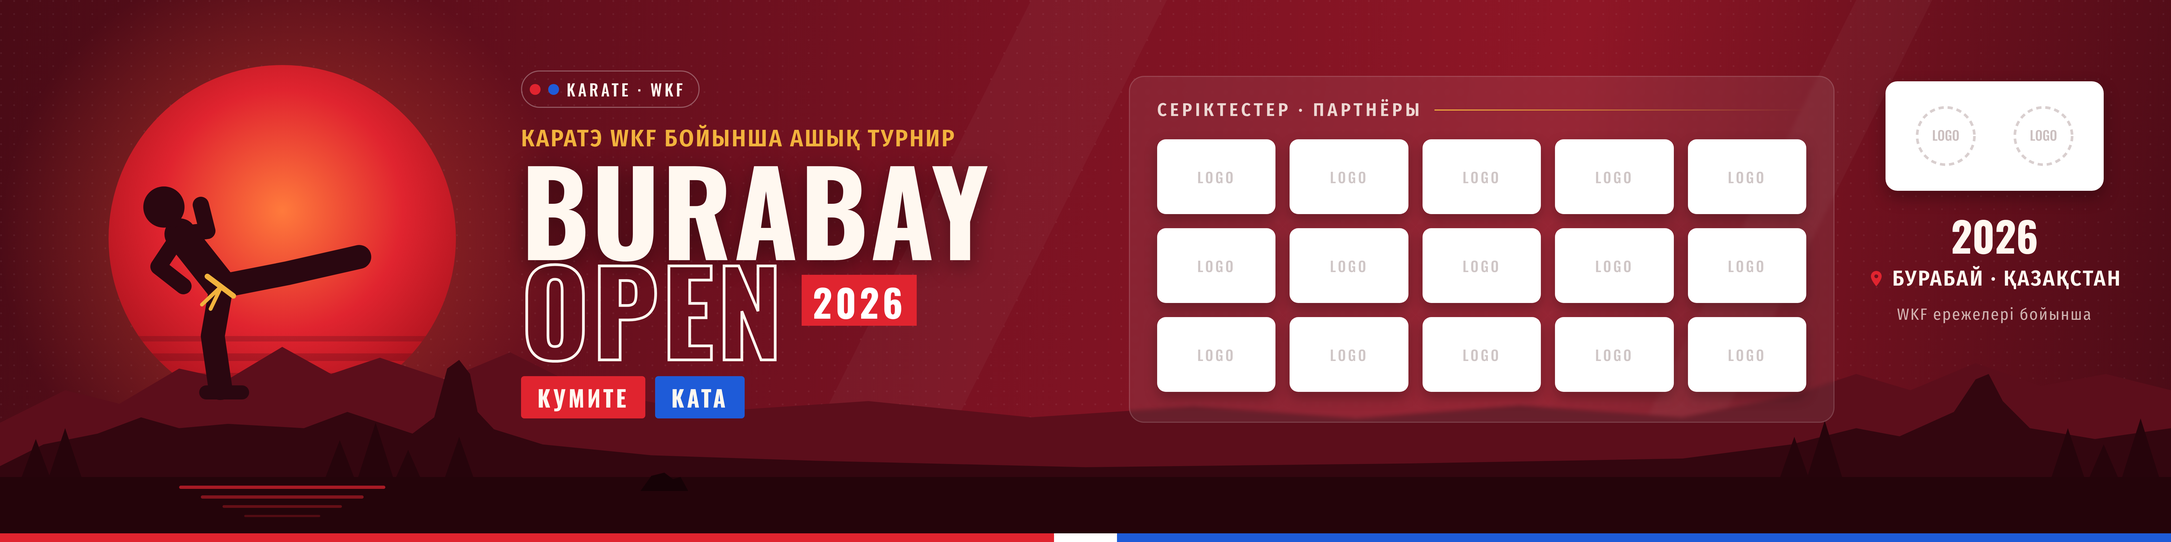
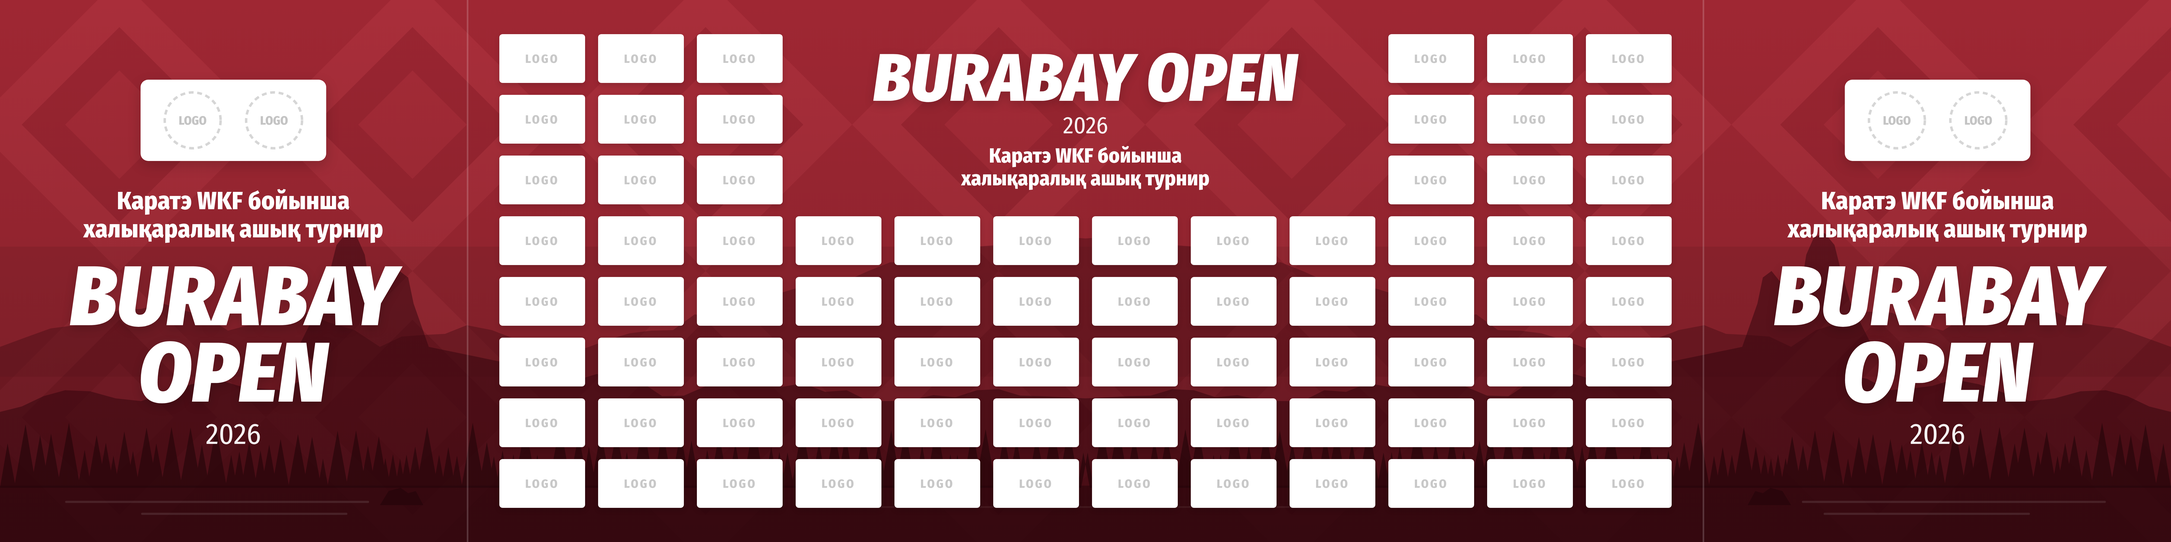
Restore grid press wall and add Burabay mountains
Back to the grid layout the client preferred, with layered Burabay
landscape: far ridge with Kokshe, Okzhetpes rock in both side panels,
pine forest and lake with Zhumbaktas.

Claude-Session: https://claude.ai/code/session_012thMDR2TzqTGe4RBzEh3Vf

diff --git a/burabay-open/press-wall.html b/burabay-open/press-wall.html
@@ -6,203 +6,171 @@
 <title>Burabay Open — пресс-волл</title>
 <link rel="preconnect" href="https://fonts.googleapis.com">
 <link rel="preconnect" href="https://fonts.gstatic.com" crossorigin>
-<link href="https://fonts.googleapis.com/css2?family=Oswald:wght@500;700&family=Fira+Sans+Condensed:wght@400;600;800&display=swap" rel="stylesheet">
+<link href="https://fonts.googleapis.com/css2?family=Fira+Sans+Condensed:ital,wght@0,400;0,600;0,800;1,800;1,900&display=swap" rel="stylesheet">
 <style>
   :root {
-    --wine: #4a0b16;
-    --wine-2: #7a1222;
-    --aka: #e0242f;
-    --ao: #1e5bd8;
-    --gold: #f2b33d;
-    --ink: #fff8f0;
+    --bg: #9f2733;
+    --bg-dark: #86202b;
+    --bg-light: #b33642;
+    --white: #ffffff;
   }
   * { box-sizing: border-box; margin: 0; padding: 0; }
   html, body { height: 100%; background: #111; }
   body { display: grid; place-items: center; overflow: hidden; }
 
-  /* Холст 4000×1000 (4:1), масштабируется под окно */
+  /* Холст 4000×1000 (пропорция 4:1), масштабируется под окно */
   .wall {
     width: 4000px; height: 1000px; position: relative; overflow: hidden; flex: none;
-    background: linear-gradient(100deg, var(--wine) 0%, var(--wine-2) 45%, #8f1626 70%, var(--wine) 100%);
-    color: var(--ink); font-family: "Fira Sans Condensed", sans-serif;
+    background: var(--bg); color: var(--white);
+    font-family: "Fira Sans Condensed", sans-serif;
   }
-  .scene { position: absolute; inset: 0; }
+  .bg { position: absolute; inset: 0; }
 
-  /* Заголовок */
-  .title-block { position: absolute; left: 960px; top: 130px; width: 960px; }
-  .badge {
-    display: inline-flex; align-items: center; gap: 14px; padding: 10px 24px 10px 14px;
-    border: 2px solid rgba(255,255,255,.3); border-radius: 999px;
-    font-family: Oswald, sans-serif; font-weight: 500; font-size: 30px; letter-spacing: 5px; text-transform: uppercase;
-  }
-  .badge i { width: 20px; height: 20px; border-radius: 50%; display: block; }
-  .subtitle { margin-top: 30px; font-weight: 600; font-size: 44px; letter-spacing: 3px; text-transform: uppercase; color: var(--gold); }
-  .name { font-family: Oswald, sans-serif; font-weight: 700; text-transform: uppercase; line-height: .86; margin-top: 10px; }
-  .name .l1 { display: block; font-size: 214px; letter-spacing: 4px; text-shadow: 0 10px 40px rgba(0,0,0,.4); }
-  .name .l2 { display: flex; align-items: center; gap: 30px; font-size: 214px; letter-spacing: 6px; }
-  .name .open { color: transparent; -webkit-text-stroke: 5px var(--ink); }
-  .name .year { font-size: 70px; line-height: 1; padding: 14px 20px 10px; background: var(--aka); color: #fff; transform: translateY(-14px); }
-  .disc { margin-top: 34px; display: flex; gap: 18px; }
-  .disc span { font-family: Oswald, sans-serif; font-weight: 700; font-size: 42px; letter-spacing: 5px; text-transform: uppercase; padding: 8px 30px; border-radius: 6px; }
+  .panel { position: absolute; top: 0; bottom: 0; display: flex; flex-direction: column; align-items: center; text-align: center; }
+  .side { width: 860px; justify-content: center; padding-bottom: 20px; }
+  .side.left  { left: 0; }
+  .side.right { right: 0; }
+  .center { left: 860px; right: 860px; padding: 46px 60px; justify-content: center; }
 
-  /* Партнёры */
-  .partners {
-    position: absolute; left: 2080px; top: 140px; width: 1300px; height: 640px;
-    border-radius: 28px; padding: 40px 50px;
-    background: rgba(255,255,255,.07); border: 2px solid rgba(255,255,255,.14);
-    backdrop-filter: blur(4px);
-  }
-  .partners h2 {
-    display: flex; align-items: center; gap: 22px; font-weight: 600; font-size: 34px; letter-spacing: 6px;
-    text-transform: uppercase; color: rgba(255,248,240,.85);
-  }
-  .partners h2::after { content: ""; flex: 1; height: 2px; background: linear-gradient(90deg, var(--gold), transparent); }
-  .logos { margin-top: 34px; display: grid; grid-template-columns: repeat(5, 1fr); gap: 26px; }
-  .logo {
-    height: 138px; background: #fff; border-radius: 16px; display: grid; place-items: center; padding: 14px 20px;
-    box-shadow: 0 10px 24px rgba(0,0,0,.25);
-  }
-  .logo img { max-width: 100%; max-height: 100%; object-fit: contain; }
-  .logo .ph { font-family: Oswald, sans-serif; font-size: 26px; letter-spacing: 4px; color: #cfc6c6; }
+  .divider { position: absolute; top: 0; bottom: 0; width: 3px; background: rgba(255,255,255,.18); }
 
-  /* Организаторы, место, дата */
-  .info { position: absolute; right: 90px; top: 150px; width: 470px; display: flex; flex-direction: column; align-items: center; text-align: center; }
-  .org { display: flex; gap: 30px; background: #fff; border-radius: 22px; padding: 26px 36px; box-shadow: 0 12px 30px rgba(0,0,0,.3); }
-  .org .slot { width: 150px; height: 150px; display: grid; place-items: center; }
-  .org .slot img { max-width: 100%; max-height: 100%; object-fit: contain; }
-  .info .date { margin-top: 44px; font-family: Oswald, sans-serif; font-weight: 700; font-size: 76px; line-height: 1; }
-  .info .place { margin-top: 18px; display: flex; align-items: center; gap: 12px; font-weight: 600; font-size: 40px; letter-spacing: 3px; text-transform: uppercase; }
-  .info .rules { margin-top: 24px; font-size: 30px; letter-spacing: 2px; color: rgba(255,248,240,.7); }
+  /* Белая плашка с логотипами организаторов */
+  .org-plate {
+    display: flex; align-items: center; justify-content: center; gap: 38px;
+    background: #fff; border-radius: 14px; padding: 18px 40px; height: 150px; min-width: 330px;
+    box-shadow: 0 8px 24px rgba(0,0,0,.18);
+  }
+  .org-plate .logo { width: 112px; height: 112px; }
 
-  .stripe { position: absolute; left: 0; right: 0; bottom: 0; height: 16px; display: flex; }
-  .stripe i:nth-child(1) { flex: 1; background: var(--aka); }
-  .stripe i:nth-child(2) { flex: .06; background: #fff; }
-  .stripe i:nth-child(3) { flex: 1; background: var(--ao); }
+  .subtitle { font-weight: 800; font-size: 46px; line-height: 1.12; letter-spacing: .3px; }
+  .side .subtitle { margin-top: 48px; }
+
+  .name {
+    font-weight: 900; font-style: italic; text-transform: uppercase; line-height: .9;
+    letter-spacing: 1px; text-shadow: 0 6px 18px rgba(0,0,0,.18);
+  }
+  .side .name { font-size: 156px; margin-top: 30px; }
+  .center .name { font-size: 124px; }
+
+  .date { font-weight: 400; font-size: 54px; margin-top: 10px; opacity: .95; }
+  .center .date { font-size: 44px; margin-top: 4px; }
+  .center .subtitle { font-size: 38px; margin-top: 8px; }
+
+  /* Сетка логотипов партнёров */
+  .grid {
+    display: grid; gap: 22px 24px; grid-auto-flow: dense;
+    grid-template-columns: repeat(12, 158px); grid-auto-rows: 90px;
+  }
+  .heading {
+    grid-column: 4 / span 6; grid-row: 1 / span 3;
+    display: flex; flex-direction: column; align-items: center; justify-content: center; text-align: center;
+  }
+  .tile {
+    background: #fff; border-radius: 6px; display: grid; place-items: center;
+    padding: 8px 14px; box-shadow: 0 4px 10px rgba(0,0,0,.15);
+  }
+  .tile img { max-width: 100%; max-height: 100%; object-fit: contain; }
+  .tile .ph { font-weight: 800; font-size: 22px; letter-spacing: 3px; color: #c8c8c8; text-transform: uppercase; }
 </style>
 </head>
 <body>
 <div class="wall" id="wall">
-  <svg class="scene" viewBox="0 0 4000 1000" aria-hidden="true">
+
+  <!-- Фон: ромбы и полосы -->
+  <svg class="bg" viewBox="0 0 4000 1000" preserveAspectRatio="none" aria-hidden="true">
     <defs>
-      <radialGradient id="sun" cx="50%" cy="42%" r="58%">
-        <stop offset="0" stop-color="#ff7a3c"/><stop offset=".6" stop-color="#e0242f"/><stop offset="1" stop-color="#b0141f"/>
-      </radialGradient>
-      <radialGradient id="glow"><stop offset="0" stop-color="#ff5a3a" stop-opacity=".5"/><stop offset="1" stop-color="#ff5a3a" stop-opacity="0"/></radialGradient>
-      <clipPath id="sunclip"><circle cx="520" cy="440" r="320"/></clipPath>
-      <pattern id="dots" width="24" height="24" patternUnits="userSpaceOnUse"><circle cx="2" cy="2" r="1.6" fill="#fff" opacity=".06"/></pattern>
+      <pattern id="diamonds" width="540" height="540" patternUnits="userSpaceOnUse" x="-50" y="-40">
+        <polygon points="270,0 540,270 270,540 0,270" fill="#a92e3a"/>
+        <polygon points="270,90 450,270 270,450 90,270" fill="#9a2531"/>
+        <polygon points="270,170 370,270 270,370 170,270" fill="#a52b37"/>
+      </pattern>
+      <linearGradient id="shade" x1="0" y1="0" x2="0" y2="1">
+        <stop offset="0" stop-color="#000" stop-opacity="0"/>
+        <stop offset="1" stop-color="#000" stop-opacity=".18"/>
+      </linearGradient>
     </defs>
-    <rect width="4000" height="1000" fill="url(#dots)"/>
-
-    <!-- крупные диагональные лучи -->
-    <g fill="#fff" opacity=".035">
-      <polygon points="1900,0 2150,0 1650,1000 1400,1000"/>
-      <polygon points="3420,0 3560,0 3060,1000 2920,1000"/>
+    <rect width="4000" height="1000" fill="url(#diamonds)"/>
+    <!-- горизонтальная полоса, как в референсе -->
+    <rect y="455" width="4000" height="240" fill="#000" opacity=".07"/>
+    <!-- Горы Бурабая: дальний хребет с горой Кокше, скала Окжетпес, сосновый лес, озеро с Жумбактас -->
+    <path fill="#3d0710" opacity=".36" d="M0 1000 L0 640 L46 623 L93 606 L140 600 L180 593 L220 571 L260 570 L300 560 L340 573 L380 584 L420 610 L466 598 L513 577 L560 575 L606 595 L653 609 L700 640 L740 621 L780 618 L820 616 L860 600 L906 609 L953 627 L1000 650 L1040 644 L1080 642 L1120 627 L1160 615 L1200 610 L1240 609 L1280 580 L1320 587 L1360 565 L1400 560 L1440 540 L1480 528 L1520 520 L1560 518 L1600 500 L1640 484 L1680 483 L1720 475 L1760 461 L1800 455 L1840 452 L1880 440 L1920 437 L1960 437 L2000 440 L2040 437 L2080 437 L2120 440 L2160 452 L2200 455 L2240 461 L2280 475 L2320 483 L2360 484 L2400 500 L2440 518 L2480 520 L2520 528 L2560 540 L2600 560 L2640 565 L2680 587 L2720 580 L2760 609 L2800 610 L2840 615 L2880 627 L2920 642 L2960 644 L3000 650 L3046 627 L3093 609 L3140 600 L3180 616 L3220 618 L3260 621 L3300 640 L3346 609 L3393 595 L3440 575 L3486 577 L3533 598 L3580 610 L3620 584 L3660 573 L3700 560 L3740 570 L3780 571 L3820 593 L3860 600 L3906 606 L3953 623 L4000 640 L4000 1000 Z"/>
+    <path fill="#3d0710" opacity=".55" d="M0 1000 L0 760 L40 750 L80 731 L120 720 L166 722 L213 735 L260 740 L306 725 L353 709 L400 700 L440 712 L480 717 L520 720 L560 699 L600 690 L550 640 L590 560 L608 500 L620 452 L638 430 L658 438 L672 470 L680 520 L696 560 L720 520 L736 500 L752 512 L762 560 L790 640 L790 640 L940 671 L980 700 L1020 697 L1060 702 L1100 690 L1140 705 L1180 704 L1220 731 L1260 730 L1306 710 L1353 708 L1400 700 L1440 714 L1480 707 L1520 723 L1560 720 L1600 740 L1640 740 L1680 738 L1720 729 L1760 733 L1800 720 L1840 718 L1880 730 L1920 731 L1960 733 L2000 735 L2040 733 L2080 731 L2120 730 L2160 718 L2200 720 L2240 733 L2280 729 L2320 738 L2360 740 L2400 740 L2440 720 L2480 723 L2520 707 L2560 714 L2600 700 L2646 708 L2693 710 L2740 730 L2780 731 L2820 704 L2860 705 L2900 690 L2940 702 L2980 697 L3020 700 L3060 671 L3210 640 L3210 640 L3238 560 L3248 512 L3264 500 L3280 520 L3304 560 L3320 520 L3328 470 L3342 438 L3362 430 L3380 452 L3392 500 L3410 560 L3450 640 L3400 690 L3440 699 L3480 720 L3520 717 L3560 712 L3600 700 L3646 709 L3693 725 L3740 740 L3786 735 L3833 722 L3880 720 L3920 731 L3960 750 L4000 760 L4000 1000 Z"/>
+    <path fill="#2e050c" opacity=".7" d="M0 900 L14 818 L29 900 Z M26 900 L47 783 L67 900 Z M57 900 L74 803 L91 900 Z M77 900 L94 800 L112 900 Z M105 900 L127 780 L148 900 Z M143 900 L156 830 L168 900 Z M161 900 L178 803 L196 900 Z M180 900 L195 817 L210 900 Z M199 900 L209 841 L220 900 Z M211 900 L229 796 L248 900 Z M233 900 L245 832 L257 900 Z M250 900 L270 789 L290 900 Z M274 900 L288 818 L303 900 Z M296 900 L316 788 L336 900 Z M331 900 L351 789 L371 900 Z M358 900 L372 820 L386 900 Z M378 900 L398 788 L418 900 Z M415 900 L426 839 L437 900 Z M429 900 L441 833 L452 900 Z M444 900 L459 816 L474 900 Z M468 900 L480 831 L492 900 Z M481 900 L496 820 L510 900 Z M501 900 L517 810 L533 900 Z M531 900 L549 801 L567 900 Z M558 900 L575 806 L592 900 Z M586 900 L595 846 L605 900 Z M603 900 L622 795 L641 900 Z M637 900 L656 794 L675 900 Z M664 900 L678 822 L692 900 Z M681 900 L698 805 L715 900 Z M700 900 L710 845 L720 900 Z M713 900 L724 838 L735 900 Z M728 900 L737 846 L747 900 Z M738 900 L749 839 L760 900 Z M751 900 L765 824 L778 900 Z M767 900 L787 788 L807 900 Z M798 900 L809 839 L820 900 Z M813 900 L826 825 L839 900 Z M831 900 L842 841 L852 900 Z M850 900 L871 780 L893 900 Z M882 900 L897 816 L912 900 Z M899 900 L910 842 L920 900 Z M913 900 L926 831 L938 900 Z M935 900 L946 838 L957 900 Z M947 900 L968 783 L989 900 Z M979 900 L990 839 L1001 900 Z M996 900 L1005 848 L1015 900 Z M1010 900 L1032 781 L1053 900 Z M1048 900 L1066 801 L1084 900 Z M1072 900 L1085 824 L1099 900 Z M1089 900 L1107 795 L1126 900 Z M1117 900 L1136 795 L1155 900 Z M1143 900 L1155 834 L1166 900 Z M1163 900 L1185 781 L1206 900 Z M1202 900 L1221 793 L1240 900 Z M1235 900 L1254 798 L1272 900 Z M1259 900 L1274 813 L1290 900 Z M1280 900 L1290 847 L1299 900 Z M1291 900 L1303 830 L1316 900 Z M1307 900 L1325 801 L1342 900 Z M1340 900 L1355 818 L1369 900 Z M1367 900 L1389 780 L1410 900 Z M1407 900 L1421 824 L1434 900 Z M1424 900 L1436 834 L1448 900 Z M1439 900 L1451 835 L1463 900 Z M1458 900 L1478 786 L1499 900 Z M1494 900 L1509 816 L1524 900 Z M1518 900 L1537 794 L1557 900 Z M1541 900 L1558 803 L1575 900 Z M1572 900 L1591 795 L1610 900 Z M1604 900 L1619 816 L1634 900 Z M1623 900 L1642 794 L1661 900 Z M1649 900 L1668 793 L1687 900 Z M1685 900 L1699 822 L1713 900 Z M1705 900 L1726 783 L1746 900 Z M1740 900 L1751 838 L1762 900 Z M1753 900 L1764 839 L1775 900 Z M1773 900 L1792 793 L1811 900 Z M1796 900 L1816 792 L1835 900 Z M1833 900 L1850 803 L1868 900 Z M1857 900 L1873 811 L1889 900 Z M1876 900 L1885 849 L1894 900 Z M1893 900 L1910 804 L1928 900 Z M1919 900 L1940 784 L1961 900 Z M1949 900 L1969 788 L1989 900 Z M1985 900 L1996 835 L2008 900 Z M4000 900 L3986 818 L3971 900 Z M3974 900 L3953 783 L3933 900 Z M3943 900 L3926 803 L3909 900 Z M3923 900 L3906 800 L3888 900 Z M3895 900 L3873 780 L3852 900 Z M3857 900 L3844 830 L3832 900 Z M3839 900 L3822 803 L3804 900 Z M3820 900 L3805 817 L3790 900 Z M3801 900 L3791 841 L3780 900 Z M3789 900 L3771 796 L3752 900 Z M3767 900 L3755 832 L3743 900 Z M3750 900 L3730 789 L3710 900 Z M3726 900 L3712 818 L3697 900 Z M3704 900 L3684 788 L3664 900 Z M3669 900 L3649 789 L3629 900 Z M3642 900 L3628 820 L3614 900 Z M3622 900 L3602 788 L3582 900 Z M3585 900 L3574 839 L3563 900 Z M3571 900 L3559 833 L3548 900 Z M3556 900 L3541 816 L3526 900 Z M3532 900 L3520 831 L3508 900 Z M3519 900 L3504 820 L3490 900 Z M3499 900 L3483 810 L3467 900 Z M3469 900 L3451 801 L3433 900 Z M3442 900 L3425 806 L3408 900 Z M3414 900 L3405 846 L3395 900 Z M3397 900 L3378 795 L3359 900 Z M3363 900 L3344 794 L3325 900 Z M3336 900 L3322 822 L3308 900 Z M3319 900 L3302 805 L3285 900 Z M3300 900 L3290 845 L3280 900 Z M3287 900 L3276 838 L3265 900 Z M3272 900 L3263 846 L3253 900 Z M3262 900 L3251 839 L3240 900 Z M3249 900 L3235 824 L3222 900 Z M3233 900 L3213 788 L3193 900 Z M3202 900 L3191 839 L3180 900 Z M3187 900 L3174 825 L3161 900 Z M3169 900 L3158 841 L3148 900 Z M3150 900 L3129 780 L3107 900 Z M3118 900 L3103 816 L3088 900 Z M3101 900 L3090 842 L3080 900 Z M3087 900 L3074 831 L3062 900 Z M3065 900 L3054 838 L3043 900 Z M3053 900 L3032 783 L3011 900 Z M3021 900 L3010 839 L2999 900 Z M3004 900 L2995 848 L2985 900 Z M2990 900 L2968 781 L2947 900 Z M2952 900 L2934 801 L2916 900 Z M2928 900 L2915 824 L2901 900 Z M2911 900 L2893 795 L2874 900 Z M2883 900 L2864 795 L2845 900 Z M2857 900 L2845 834 L2834 900 Z M2837 900 L2815 781 L2794 900 Z M2798 900 L2779 793 L2760 900 Z M2765 900 L2746 798 L2728 900 Z M2741 900 L2726 813 L2710 900 Z M2720 900 L2710 847 L2701 900 Z M2709 900 L2697 830 L2684 900 Z M2693 900 L2675 801 L2658 900 Z M2660 900 L2645 818 L2631 900 Z M2633 900 L2611 780 L2590 900 Z M2593 900 L2579 824 L2566 900 Z M2576 900 L2564 834 L2552 900 Z M2561 900 L2549 835 L2537 900 Z M2542 900 L2522 786 L2501 900 Z M2506 900 L2491 816 L2476 900 Z M2482 900 L2463 794 L2443 900 Z M2459 900 L2442 803 L2425 900 Z M2428 900 L2409 795 L2390 900 Z M2396 900 L2381 816 L2366 900 Z M2377 900 L2358 794 L2339 900 Z M2351 900 L2332 793 L2313 900 Z M2315 900 L2301 822 L2287 900 Z M2295 900 L2274 783 L2254 900 Z M2260 900 L2249 838 L2238 900 Z M2247 900 L2236 839 L2225 900 Z M2227 900 L2208 793 L2189 900 Z M2204 900 L2184 792 L2165 900 Z M2167 900 L2150 803 L2132 900 Z M2143 900 L2127 811 L2111 900 Z M2124 900 L2115 849 L2106 900 Z M2107 900 L2090 804 L2072 900 Z M2081 900 L2060 784 L2039 900 Z M2051 900 L2031 788 L2011 900 Z M2015 900 L2004 835 L1992 900 Z"/>
+    <rect y="896" width="4000" height="104" fill="#2e050c" opacity=".55"/>
+    <g fill="#fff" opacity=".12">
+      <rect x="120" y="924" width="560" height="4" rx="2"/><rect x="260" y="946" width="380" height="4" rx="2"/>
+      <rect x="3320" y="924" width="560" height="4" rx="2"/><rect x="3360" y="946" width="380" height="4" rx="2"/>
+      <rect x="1500" y="934" width="1000" height="3" rx="1.5" opacity=".6"/>
     </g>
-
-    <!-- солнце -->
-    <circle cx="520" cy="440" r="520" fill="url(#glow)"/>
-    <circle cx="520" cy="440" r="320" fill="url(#sun)"/>
-    <g clip-path="url(#sunclip)" fill="#4a0b16" opacity=".25">
-      <rect x="150" y="620" width="760" height="10"/><rect x="150" y="652" width="760" height="14"/>
-      <rect x="150" y="688" width="760" height="18"/><rect x="150" y="728" width="760" height="24"/>
+    <g fill="#2e050c" opacity=".75">
+      <path d="M700 932 L716 906 L738 900 L752 910 L766 906 L780 932 Z"/>
+      <path d="M3300 932 L3284 906 L3262 900 L3248 910 L3234 906 L3220 932 Z"/>
     </g>
-
-    <!-- дальние горы по всей ширине -->
-    <path fill="#5c0e1b" d="M0 780 L120 720 L220 745 L330 680 L420 700 L520 640 L610 690 L700 660 L820 700 L940 650
-      L1080 720 L1300 760 L1600 740 L1900 770 L2200 750 L2500 772 L2800 748 L3100 770 L3300 730 L3420 690 L3520 720
-      L3640 670 L3760 712 L3880 690 L4000 720 L4000 1000 L0 1000 Z"/>
-
-    <!-- каратист, ёко-гери -->
-    <g transform="translate(-930,-20)">
-      <g stroke="#2a0710" stroke-linecap="round" stroke-linejoin="round" fill="none">
-        <path d="M1338 548 L1322 640 L1336 736" stroke-width="44"/>
-        <path d="M1338 548 L1262 452" stroke-width="58"/>
-        <path d="M1338 548 L1460 524 L1592 494" stroke-width="44"/>
-        <path d="M1262 452 L1312 446 L1300 398" stroke-width="30"/>
-        <path d="M1262 452 L1222 512 L1268 548" stroke-width="30"/>
-      </g>
-      <circle cx="1232" cy="402" r="38" fill="#2a0710"/>
-      <path d="M1310 744 L1376 744" stroke="#2a0710" stroke-width="26" stroke-linecap="round"/>
-      <path d="M1312 530 L1360 566" stroke="#f2b33d" stroke-width="10" stroke-linecap="round"/>
-      <path d="M1338 548 L1318 590 M1338 548 L1302 582" stroke="#f2b33d" stroke-width="7" stroke-linecap="round"/>
-    </g>
-
-    <!-- ближние скалы (Окжетпес) и сосны -->
-    <path fill="#33060f" d="M0 860 L80 820 L180 800 L260 770 L330 790 L420 782 L490 786
-      L560 790 L640 760 L760 800 L800 770 L824 680 L846 664 L866 690 L880 760 L910 792 L1000 820 L1200 840 L1500 850 L2000 862 L2600 855 L3100 846 L3300 820
-      L3420 790 L3500 805 L3600 760 L3640 700 L3664 690 L3690 740 L3740 790 L3860 810 L4000 790 L4000 1000 L0 1000 Z"/>
-    <g fill="#26040b">
-      <path d="M40 880 L66 810 L92 880 Z M90 880 L120 790 L150 880 Z M600 880 L626 812 L652 880 Z M660 880 L692 780 L724 880 Z
-               M730 880 L752 830 L774 880 Z M820 880 L846 806 L872 880 Z
-               M3280 880 L3306 806 L3332 880 Z M3330 880 L3362 776 L3394 880 Z M3780 880 L3810 790 L3840 880 Z
-               M3850 880 L3876 820 L3902 880 Z M3910 880 L3944 772 L3978 880 Z"/>
-    </g>
-
-    <!-- озеро -->
-    <rect y="880" width="4000" height="120" fill="#24040a"/>
-    <g fill="#e0242f">
-      <rect x="330" y="896" width="380" height="6" rx="3" opacity=".7"/>
-      <rect x="370" y="914" width="300" height="6" rx="3" opacity=".5"/>
-      <rect x="410" y="932" width="220" height="5" rx="2.5" opacity=".35"/>
-      <rect x="450" y="950" width="140" height="4" rx="2" opacity=".25"/>
-    </g>
-    <path fill="#160206" d="M1180 906 L1200 878 L1224 872 L1240 884 L1254 880 L1268 906 Z"/>
+    <rect width="4000" height="1000" fill="url(#shade)"/>
   </svg>
 
-  <div class="title-block">
-    <div class="badge"><i style="background:var(--aka)"></i><i style="background:var(--ao)"></i>Karate · WKF</div>
-    <div class="subtitle" data-f="subtitle"></div>
-    <div class="name"><span class="l1">Burabay</span><span class="l2"><span class="open">Open</span><span class="year" data-f="year"></span></span></div>
-    <div class="disc"><span style="background:var(--aka)">Кумите</span><span style="background:var(--ao)">Ката</span></div>
-  </div>
+  <div class="divider" style="left:860px"></div>
+  <div class="divider" style="right:860px"></div>
 
-  <div class="partners">
-    <h2 data-f="partnersTitle"></h2>
-    <div class="logos" id="logos"></div>
-  </div>
-
-  <div class="info">
-    <div class="org" id="org"></div>
-    <div class="date" data-f="date"></div>
-    <div class="place">
-      <svg width="34" height="34" viewBox="0 0 24 24" fill="#e0242f"><path d="M12 2a7 7 0 0 0-7 7c0 5.2 7 13 7 13s7-7.8 7-13a7 7 0 0 0-7-7zm0 9.5A2.5 2.5 0 1 1 12 6.5a2.5 2.5 0 0 1 0 5z"/></svg>
-      <span data-f="place"></span>
+  <section class="panel side left" data-side></section>
+  <section class="panel center">
+    <div class="grid" id="grid">
+      <div class="heading">
+        <div class="name" data-f="name"></div>
+        <div class="date" data-f="date"></div>
+        <div class="subtitle" data-f="subtitle"></div>
+      </div>
     </div>
-    <div class="rules" data-f="rules"></div>
-  </div>
-
-  <div class="stripe"><i></i><i></i><i></i></div>
+  </section>
+  <section class="panel side right" data-side></section>
 </div>
 
 <script>
-/* ===== НАСТРОЙКИ — тексты и логотипы ===== */
+/* ===== НАСТРОЙКИ — меняйте тексты и логотипы здесь ===== */
 const CONFIG = {
-  subtitle: "Каратэ WKF бойынша ашық турнир",
-  year: "2026",
-  date: "2026",                      // например: "12–14 желтоқсан 2026"
-  place: "Бурабай · Қазақстан",
-  rules: "WKF ережелері бойынша",
-  partnersTitle: "Серіктестер · Партнёры",
-  orgLogos: ["", ""],                // логотипы организаторов, напр. "logos/wkf.png"
-  partnerLogos: [],                  // логотипы партнёров (до 15 штук)
-  partnerSlots: 15,
+  name: "Burabay Open",
+  date: "2026",                                   // например: "6–8 қараша 2026"
+  subtitle: "Каратэ WKF бойынша<br>халықаралық ашық турнир",
+  // Логотипы организаторов на белой плашке (слева и справа). Пути к файлам, напр. "logos/wkf.png"
+  orgLogos: ["", ""],
+  // Логотипы партнёров для сетки в центре. Повторяются по кругу.
+  sponsorLogos: [],
+  rows: 8,
 };
-/* ========================================= */
+/* ======================================================== */
+
+function logoEl(src, cls) {
+  if (src) { const i = new Image(); i.src = src; i.alt = ""; if (cls) i.className = cls; return i; }
+  const svgNS = "http://www.w3.org/2000/svg";
+  const s = document.createElementNS(svgNS, "svg");
+  s.setAttribute("viewBox", "0 0 100 100"); if (cls) s.setAttribute("class", cls);
+  s.innerHTML = '<circle cx="50" cy="50" r="46" fill="none" stroke="#d6d6d6" stroke-width="4" stroke-dasharray="8 6"/>' +
+                '<text x="50" y="57" text-anchor="middle" font-family="Fira Sans Condensed" font-weight="800" font-size="20" fill="#c4c4c4">LOGO</text>';
+  return s;
+}
 
 document.querySelectorAll("[data-f]").forEach(el => el.innerHTML = CONFIG[el.dataset.f]);
 
-const ph = '<svg viewBox="0 0 100 100" width="120" height="120"><circle cx="50" cy="50" r="44" fill="none" stroke="#d9cfcf" stroke-width="4" stroke-dasharray="8 6"/><text x="50" y="57" text-anchor="middle" font-family="Oswald" font-size="20" fill="#cbbfbf">LOGO</text></svg>';
-const org = document.getElementById("org");
-CONFIG.orgLogos.forEach(src => {
-  const d = document.createElement("div"); d.className = "slot";
-  d.innerHTML = src ? '<img src="' + src + '" alt="">' : ph; org.appendChild(d);
+document.querySelectorAll("[data-side]").forEach(side => {
+  const plate = document.createElement("div"); plate.className = "org-plate";
+  CONFIG.orgLogos.forEach(src => plate.appendChild(logoEl(src, "logo")));
+  side.innerHTML = '<div class="subtitle"></div><div class="name"></div><div class="date"></div>';
+  side.prepend(plate);
+  side.querySelector(".subtitle").innerHTML = CONFIG.subtitle;
+  side.querySelector(".name").innerHTML = CONFIG.name;
+  side.querySelector(".date").innerHTML = CONFIG.date;
 });
-const logos = document.getElementById("logos");
-for (let i = 0; i < CONFIG.partnerSlots; i++) {
-  const d = document.createElement("div"); d.className = "logo";
-  const src = CONFIG.partnerLogos[i];
-  d.innerHTML = src ? '<img src="' + src + '" alt="">' : '<span class="ph">LOGO</span>';
-  logos.appendChild(d);
+
+const grid = document.getElementById("grid");
+const cols = 12, n = CONFIG.sponsorLogos.length;
+const cells = cols * CONFIG.rows - 6 * 3;   // минус «окно» под заголовок
+for (let k = 0; k < cells; k++) {
+  { const r = Math.floor(k / cols), c = k % cols;
+    const t = document.createElement("div"); t.className = "tile";
+    if (n) t.appendChild(logoEl(CONFIG.sponsorLogos[(c + r * 2) % n]));
+    else t.innerHTML = '<span class="ph">Logo</span>';
+    grid.appendChild(t);
+  }
 }
 
 function fit() {
